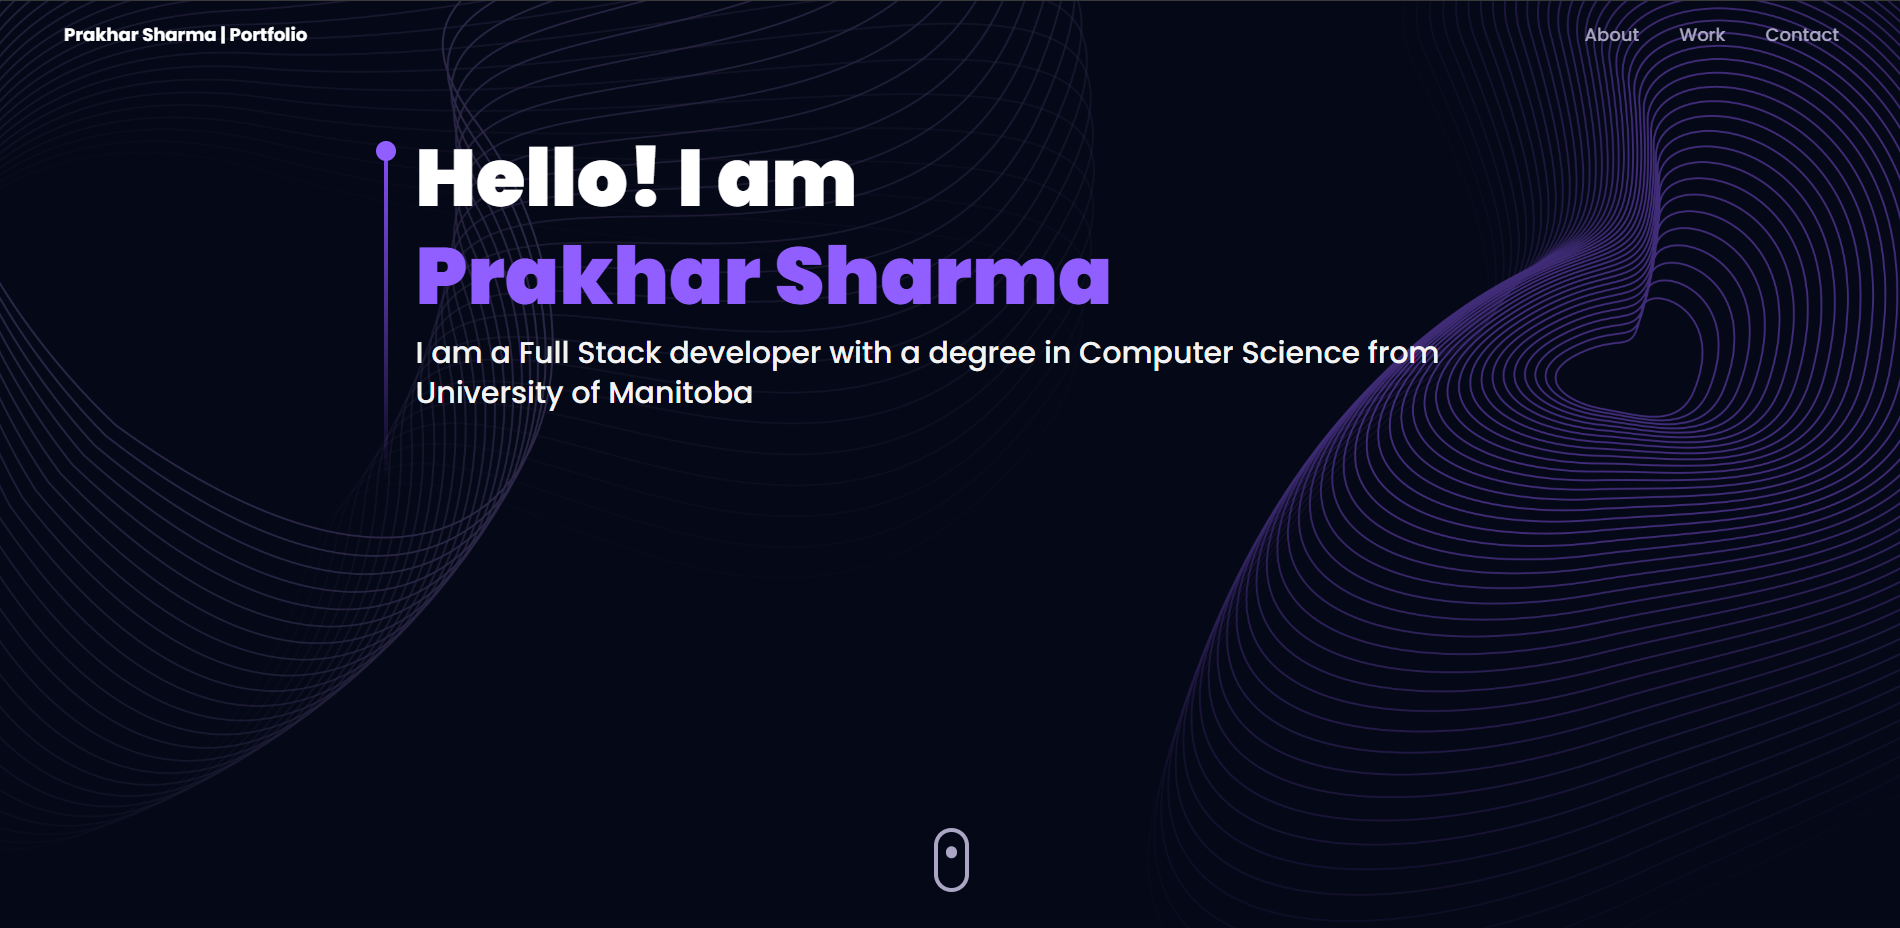
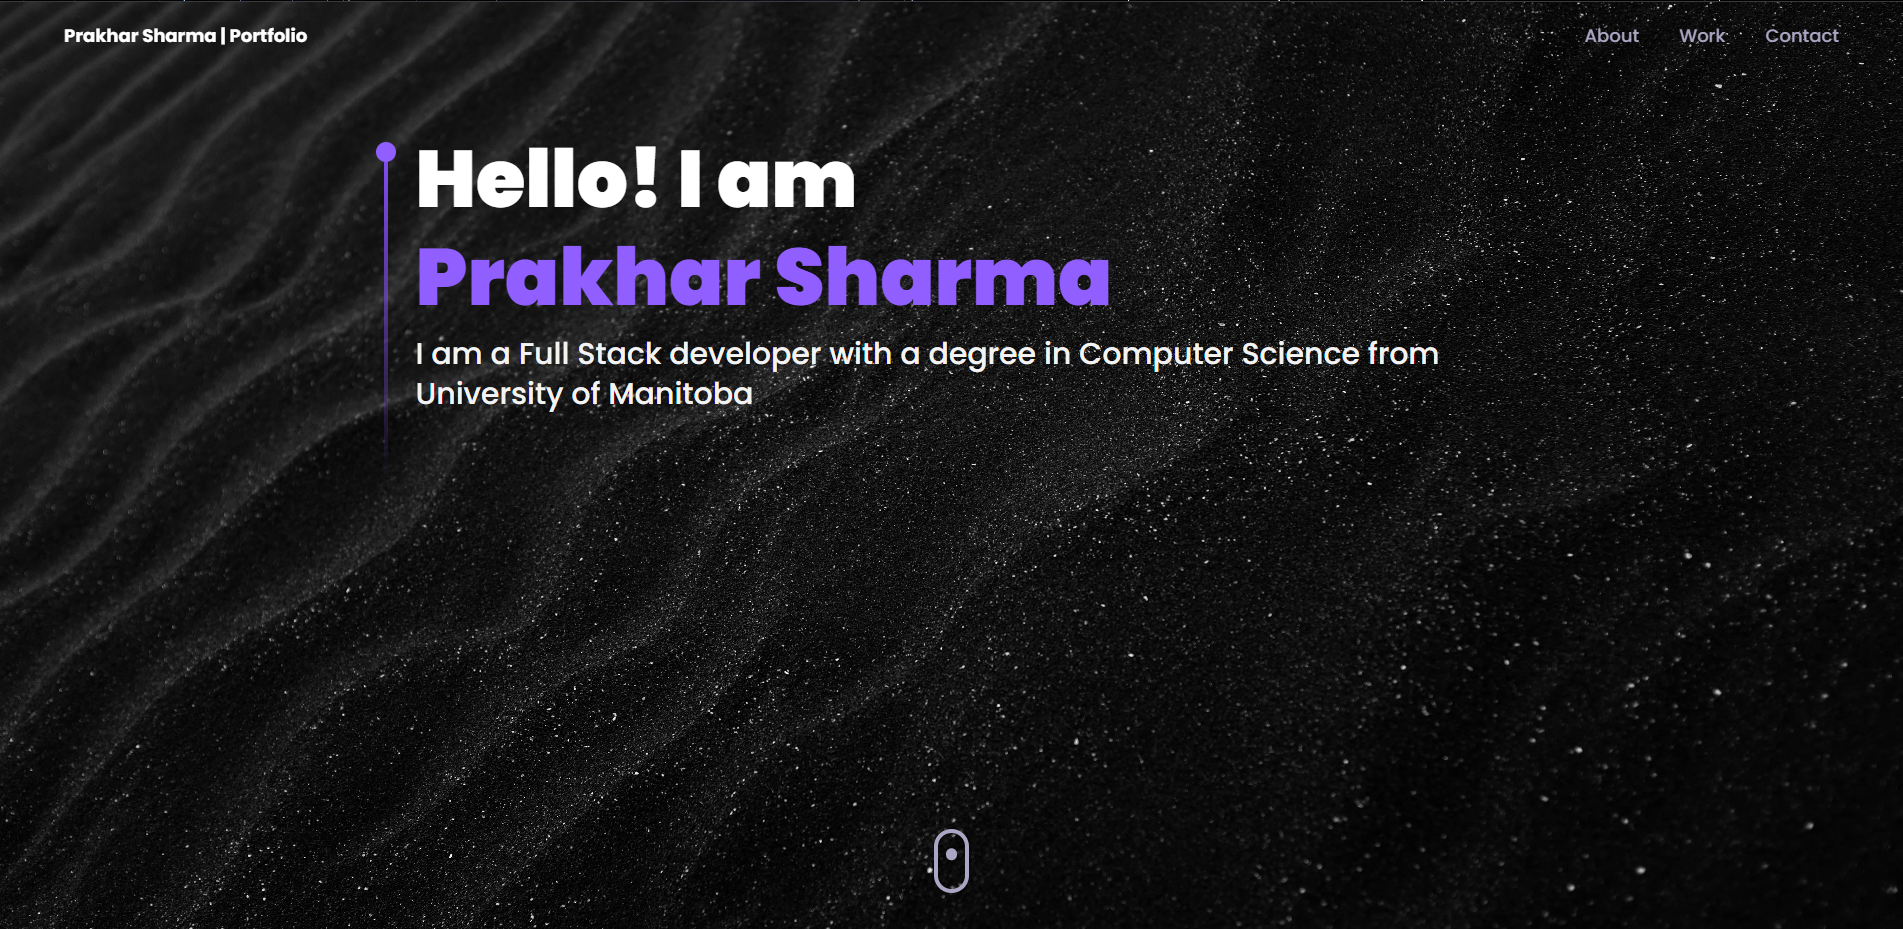
Updated Background

diff --git a/src/styles.js b/src/styles.js
@@ -4,12 +4,12 @@ const styles = {
     padding: "sm:px-16 px-6 sm:py-16 py-10",
   
     heroHeadText:
-      "font-black text-white lg:text-[80px] sm:text-[60px] xs:text-[50px] text-[40px] lg:leading-[98px] mt-2",
+      "font-black text-[#F6f6f5] lg:text-[80px] sm:text-[60px] xs:text-[50px] text-[40px] lg:leading-[98px] mt-2",
     heroSubText:
-      "text-[#dfd9ff] font-medium lg:text-[30px] sm:text-[26px] xs:text-[20px] text-[16px] lg:leading-[40px]",
+      "text-[#F6f6f5] font-medium lg:text-[30px] sm:text-[26px] xs:text-[20px] text-[16px] lg:leading-[40px]",
   
     sectionHeadText:
-      "text-white font-black md:text-[60px] sm:text-[50px] xs:text-[40px] text-[30px]",
+      "text-[#E6e6de] font-black md:text-[60px] sm:text-[50px] xs:text-[40px] text-[30px]",
     sectionSubText:
       "sm:text-[18px] text-[14px] text-secondary uppercase tracking-wider",
   };

diff --git a/tailwind.config.js b/tailwind.config.js
@@ -5,7 +5,7 @@ module.exports = {
   theme: {
     extend: {
       colors: {
-        primary: "#050816",
+        primary: "#0c0c0c",
         secondary: "#aaa6c3",
         tertiary: "#151030",
         "black-100": "#100d25",
@@ -19,7 +19,7 @@ module.exports = {
         xs: "450px",
       },
       backgroundImage: {
-        "hero-pattern": "url('/src/assets/herobg.png')",
+        "hero-pattern": "url('/src/assets/pexels-adrien-olichon-2387793.jpg')",
       },
     },
   },

diff --git a/src/components/Hero.jsx b/src/components/Hero.jsx
@@ -20,7 +20,6 @@ const Hero = () => {
           </h1>
             <p className={`${styles.heroSubText} mt-2 text-white-100`}>
               I am a Full Stack developer with a degree in Computer Science from University of Manitoba
-              <br className='sm:block hidden'/>
             </p>
         </div>
       </div>
